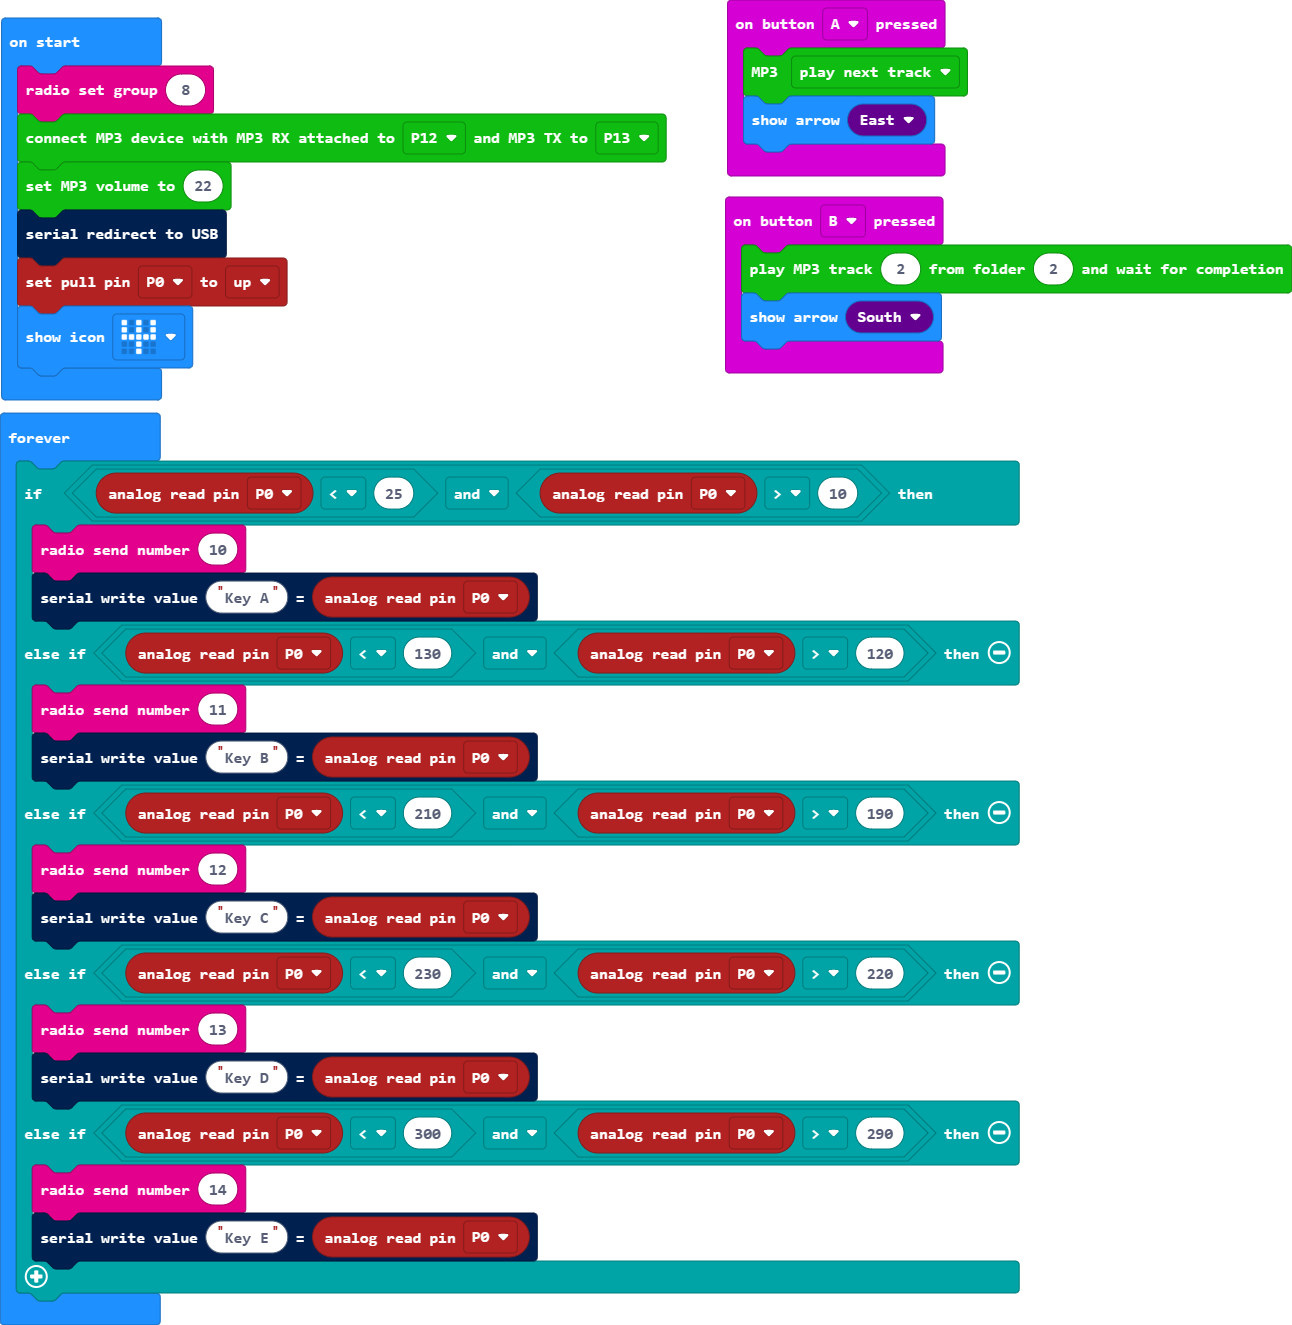
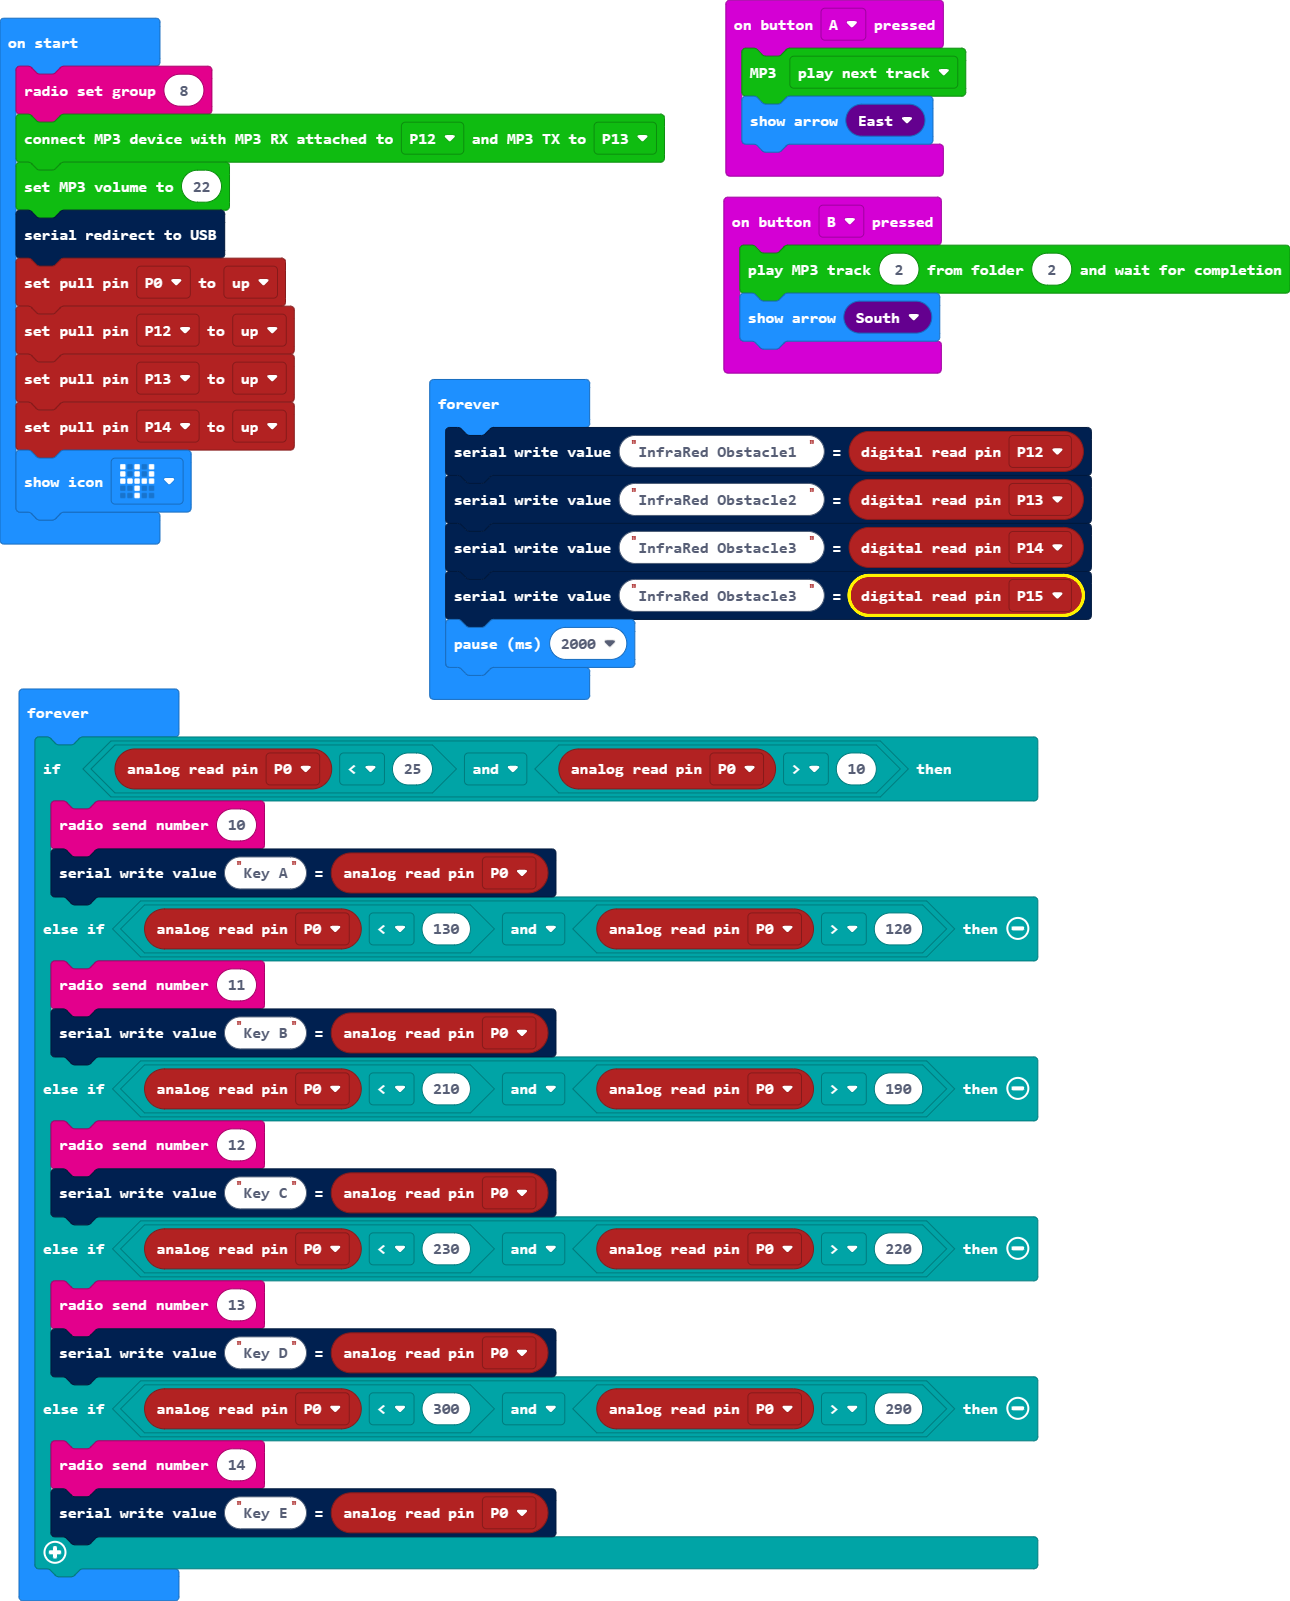
Update main.blocks, main.ts

diff --git a/main.ts b/main.ts
@@ -11,7 +11,17 @@ makerbit.connectSerialMp3(DigitalPin.P12, DigitalPin.P13)
 makerbit.setMp3Volume(22)
 serial.redirectToUSB()
 pins.setPull(DigitalPin.P0, PinPullMode.PullUp)
+pins.setPull(DigitalPin.P12, PinPullMode.PullUp)
+pins.setPull(DigitalPin.P13, PinPullMode.PullUp)
+pins.setPull(DigitalPin.P14, PinPullMode.PullUp)
 basic.showIcon(IconNames.Pitchfork)
+basic.forever(function () {
+    serial.writeValue("InfraRed Obstacle1 ", pins.digitalReadPin(DigitalPin.P12))
+    serial.writeValue("InfraRed Obstacle2 ", pins.digitalReadPin(DigitalPin.P13))
+    serial.writeValue("InfraRed Obstacle3 ", pins.digitalReadPin(DigitalPin.P14))
+    serial.writeValue("InfraRed Obstacle3 ", pins.digitalReadPin(DigitalPin.P15))
+    basic.pause(2000)
+})
 basic.forever(function () {
     if (pins.analogReadPin(AnalogPin.P0) < 25 && pins.analogReadPin(AnalogPin.P0) > 10) {
         radio.sendNumber(10)
